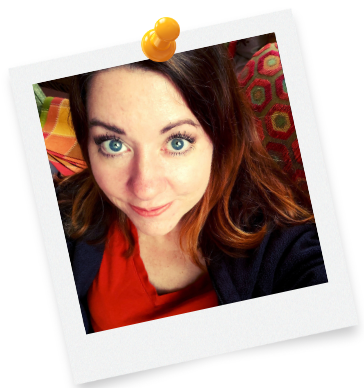
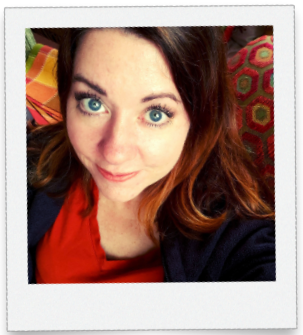
Changed profile pic to remove pin. Added hover feature.

diff --git a/build/index.html b/build/index.html
@@ -1,1 +1,1 @@
-<!doctype html><html lang="en"><head><meta charset="utf-8"/><link rel="icon" href="/react-portfolio/favicon.ico"/><meta name="viewport" content="width=device-width,initial-scale=1"/><meta name="theme-color" content="#000000"/><meta name="description" content="Web site created using create-react-app"/><link rel="apple-touch-icon" href="/react-portfolio/logo192.png"/><link href="https://cdn.jsdelivr.net/npm/bootstrap@5.0.2/dist/css/bootstrap.min.css" rel="stylesheet" integrity="sha384-EVSTQN3/azprG1Anm3QDgpJLIm9Nao0Yz1ztcQTwFspd3yD65VohhpuuCOmLASjC" crossorigin="anonymous"><link rel="style-sheet" href="/src/index.css"/><script src="https://kit.fontawesome.com/24bcd62983.js" crossorigin="anonymous"></script><link rel="manifest" href="/react-portfolio/manifest.json"/><title>Portfolio</title><script defer="defer" src="/react-portfolio/static/js/main.77efe47b.js"></script><link href="/react-portfolio/static/css/main.f65028f6.css" rel="stylesheet"></head><body><noscript>You need to enable JavaScript to run this app.</noscript><div id="root"></div></body></html>
+<!doctype html><html lang="en"><head><meta charset="utf-8"/><link rel="icon" href="/react-portfolio/favicon.ico"/><meta name="viewport" content="width=device-width,initial-scale=1"/><meta name="theme-color" content="#000000"/><meta name="description" content="Web site created using create-react-app"/><link rel="apple-touch-icon" href="/react-portfolio/logo192.png"/><link href="https://cdn.jsdelivr.net/npm/bootstrap@5.0.2/dist/css/bootstrap.min.css" rel="stylesheet" integrity="sha384-EVSTQN3/azprG1Anm3QDgpJLIm9Nao0Yz1ztcQTwFspd3yD65VohhpuuCOmLASjC" crossorigin="anonymous"><link rel="style-sheet" href="/src/index.css"/><script src="https://kit.fontawesome.com/24bcd62983.js" crossorigin="anonymous"></script><link rel="manifest" href="/react-portfolio/manifest.json"/><title>Portfolio</title><script defer="defer" src="/react-portfolio/static/js/main.a9940b97.js"></script><link href="/react-portfolio/static/css/main.b9e1015c.css" rel="stylesheet"></head><body><noscript>You need to enable JavaScript to run this app.</noscript><div id="root"></div></body></html>

diff --git a/src/index.css b/src/index.css
@@ -135,14 +135,21 @@ ul {
 }
 
 .polaroid {
-  width: 
+  transition: transform 0.3s ease-in-out;
+  transform: rotate(-15deg);
 }
+
+.polaroid:hover {
+  transform: rotate(20deg);
+}
+
 /* My bio. */
 p {
   font-family: Verdana, Geneva, Tahoma, sans-serif;
   font-size: 18px;
   display: inline;
   padding-inline-start: 15px;
+  padding-left: 40px;
   flex: 0 0 70%;
   width: 150vmin;
   color: var(--text-color);
